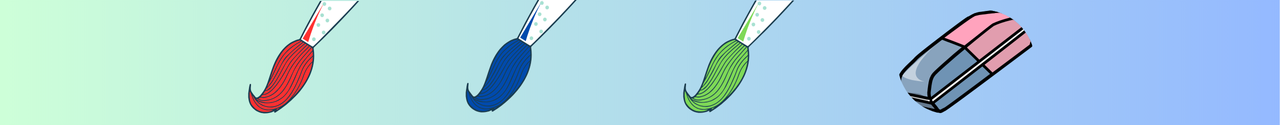
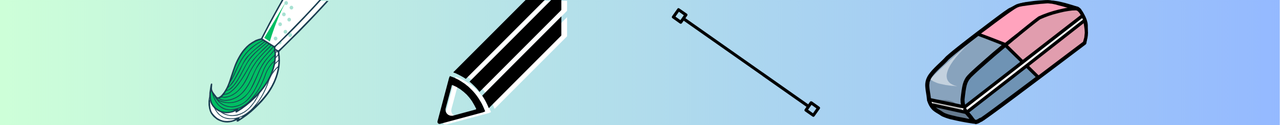
Added cursor image during selection mode, added text displaying current mode, modified new headers, missing new headers implementation

diff --git a/main.py b/main.py
@@ -4,20 +4,64 @@ import HandTracker as ht
 import numpy as np
 from utils import only, isInRange
 
-header_folder_path = "Assets/Headers"
+assets_folder_path = "Assets"
+
+cursor_filename = "cursor.png"
+
+picker_folder_path = f"{assets_folder_path}/Pickers"
+picker_files = os.listdir(picker_folder_path)
+
+header_folder_path = f"{assets_folder_path}/Headers"
 header_files = os.listdir(header_folder_path)
 
-headers = [cv2.resize(cv2.imread(f'{header_folder_path}/{header_file}'), (1920, 125))
+headers = [cv2.resize(cv2.imread(f'{header_folder_path}/{header_file}'), (1280, 125))
            for header_file in header_files if header_file.startswith("Header") and header_file.endswith(".png")]
+
+cursor = cv2.resize(cv2.imread(f'{assets_folder_path}/{cursor_filename}'), (50, 50))
 
 current_header = headers[0]
 
+def draw_cursor(frame, x1, x2, y1, y2):
+    if cursor is None:
+        print("Error: Cursor image not loaded.")
+        return
+    
+    if frame is None:
+        print("Error: Frame is empty.")
+        return
+
+    cursor_x = (x1 + x2) // 2
+    cursor_y = (y1 + y2) // 2
+
+    cursor_h, cursor_w, _ = cursor.shape
+
+    # Calculate the top-left and bottom-right coordinates
+    top_left_x = max(0, cursor_x - cursor_w // 2)
+    top_left_y = max(0, cursor_y - cursor_h // 2)
+
+    if top_left_y < 125:
+        return
+
+    bottom_right_x = min(frame.shape[1], cursor_x + cursor_w // 2)
+    bottom_right_y = min(frame.shape[0], cursor_y + cursor_h // 2)
+
+    # Ensure the dimensions are valid for resizing
+    resized_width = max(1, bottom_right_x - top_left_x)
+    resized_height = max(1, bottom_right_y - top_left_y)
+
+    # Resize the cursor image
+    cursor_resized = cv2.resize(cursor, (resized_width, resized_height))
+
+    # Overlay the cursor image onto the frame
+    frame[top_left_y:top_left_y + resized_height, top_left_x:top_left_x + resized_width] = cursor_resized
+
 cap = cv2.VideoCapture(0)
-cap.set(3, 1920)
-cap.set(4, 1080)
+cap.set(3, 1280)
+cap.set(4, 720)
 
 # Variables for drawing -> This variables can be changed by the user during the program execution
 current_color = None
+current_mode = None
 current_thickness = 15
 brush_thickness = 15
 eraser_thickness = 50
@@ -27,10 +71,11 @@ if not cap.isOpened():
     exit()
 
 tracker = ht.HandDetector(detectionCon=0.6)
-canvas = np.zeros((1080, 1920, 3), np.uint8)
+canvas = np.zeros((720, 1280, 3), np.uint8)
 
 # previous positions saved for drawing lines
 xp, yp = None, None
+coords = None
 
 frame_count = 0
 process_interval = 2 # Process every 2nd frame
@@ -55,6 +100,7 @@ while True:
 
             if only(fingers, [1, 2]): # Selection mode
                 xp, yp = None, None
+                current_mode = "Selection"
 
                 if y1 < 125: 
                     if isInRange(x1, 188.75, 303.45):
@@ -74,10 +120,12 @@ while True:
                         current_color = (0, 0, 0)
                         current_thickness = eraser_thickness
 
+                coords = [x1, x2, y1, y2]
                 if current_color:
-                    cv2.rectangle(frame, (x1, y1-30), (x2, y2+30), current_color, cv2.FILLED)
+                    draw_cursor(frame, x1, x2, y1, y2)
                 
             elif only(fingers, [1]): # Draw mode
+                current_mode = "Draw"
                 if current_color:
                     cv2.circle(frame, (x1, y1), 15, current_color, cv2.FILLED)
 
@@ -96,11 +144,21 @@ while True:
                                 prev_x, prev_y = xi, yi
                         
                     xp, yp = x1, y1
+                    coords = None
             else:
                 xp, yp = None, None
+                coords = None
+                current_mode = None
     
-    if xp is not None and yp is not None:
-        cv2.circle(frame, (xp, yp), 15, current_color, cv2.FILLED)
+    if current_mode == "Draw":
+        if xp is not None and yp is not None:
+            cv2.circle(frame, (xp, yp), 15, current_color, cv2.FILLED)
+    elif current_mode == "Selection":
+        if coords is not None:
+            draw_cursor(frame, *coords)
+    
+    if current_mode:
+        cv2.putText(frame, f"{current_mode} mode", (800, 200), cv2.FONT_HERSHEY_SIMPLEX, 2, (255, 255, 255), 3)
     
     grayImg = cv2.cvtColor(canvas, cv2.COLOR_BGR2GRAY)
     _, imgInv = cv2.threshold(grayImg, 50, 255, cv2.THRESH_BINARY_INV)
@@ -109,7 +167,7 @@ while True:
     frame = cv2.bitwise_or(frame, canvas)
             
 
-    frame[0:125, 0:1920] = current_header
+    frame[0:125, 0:1280] = current_header
     cv2.imshow("Image", frame)
 
     if cv2.waitKey(1) & 0xFF == ord('q'):
